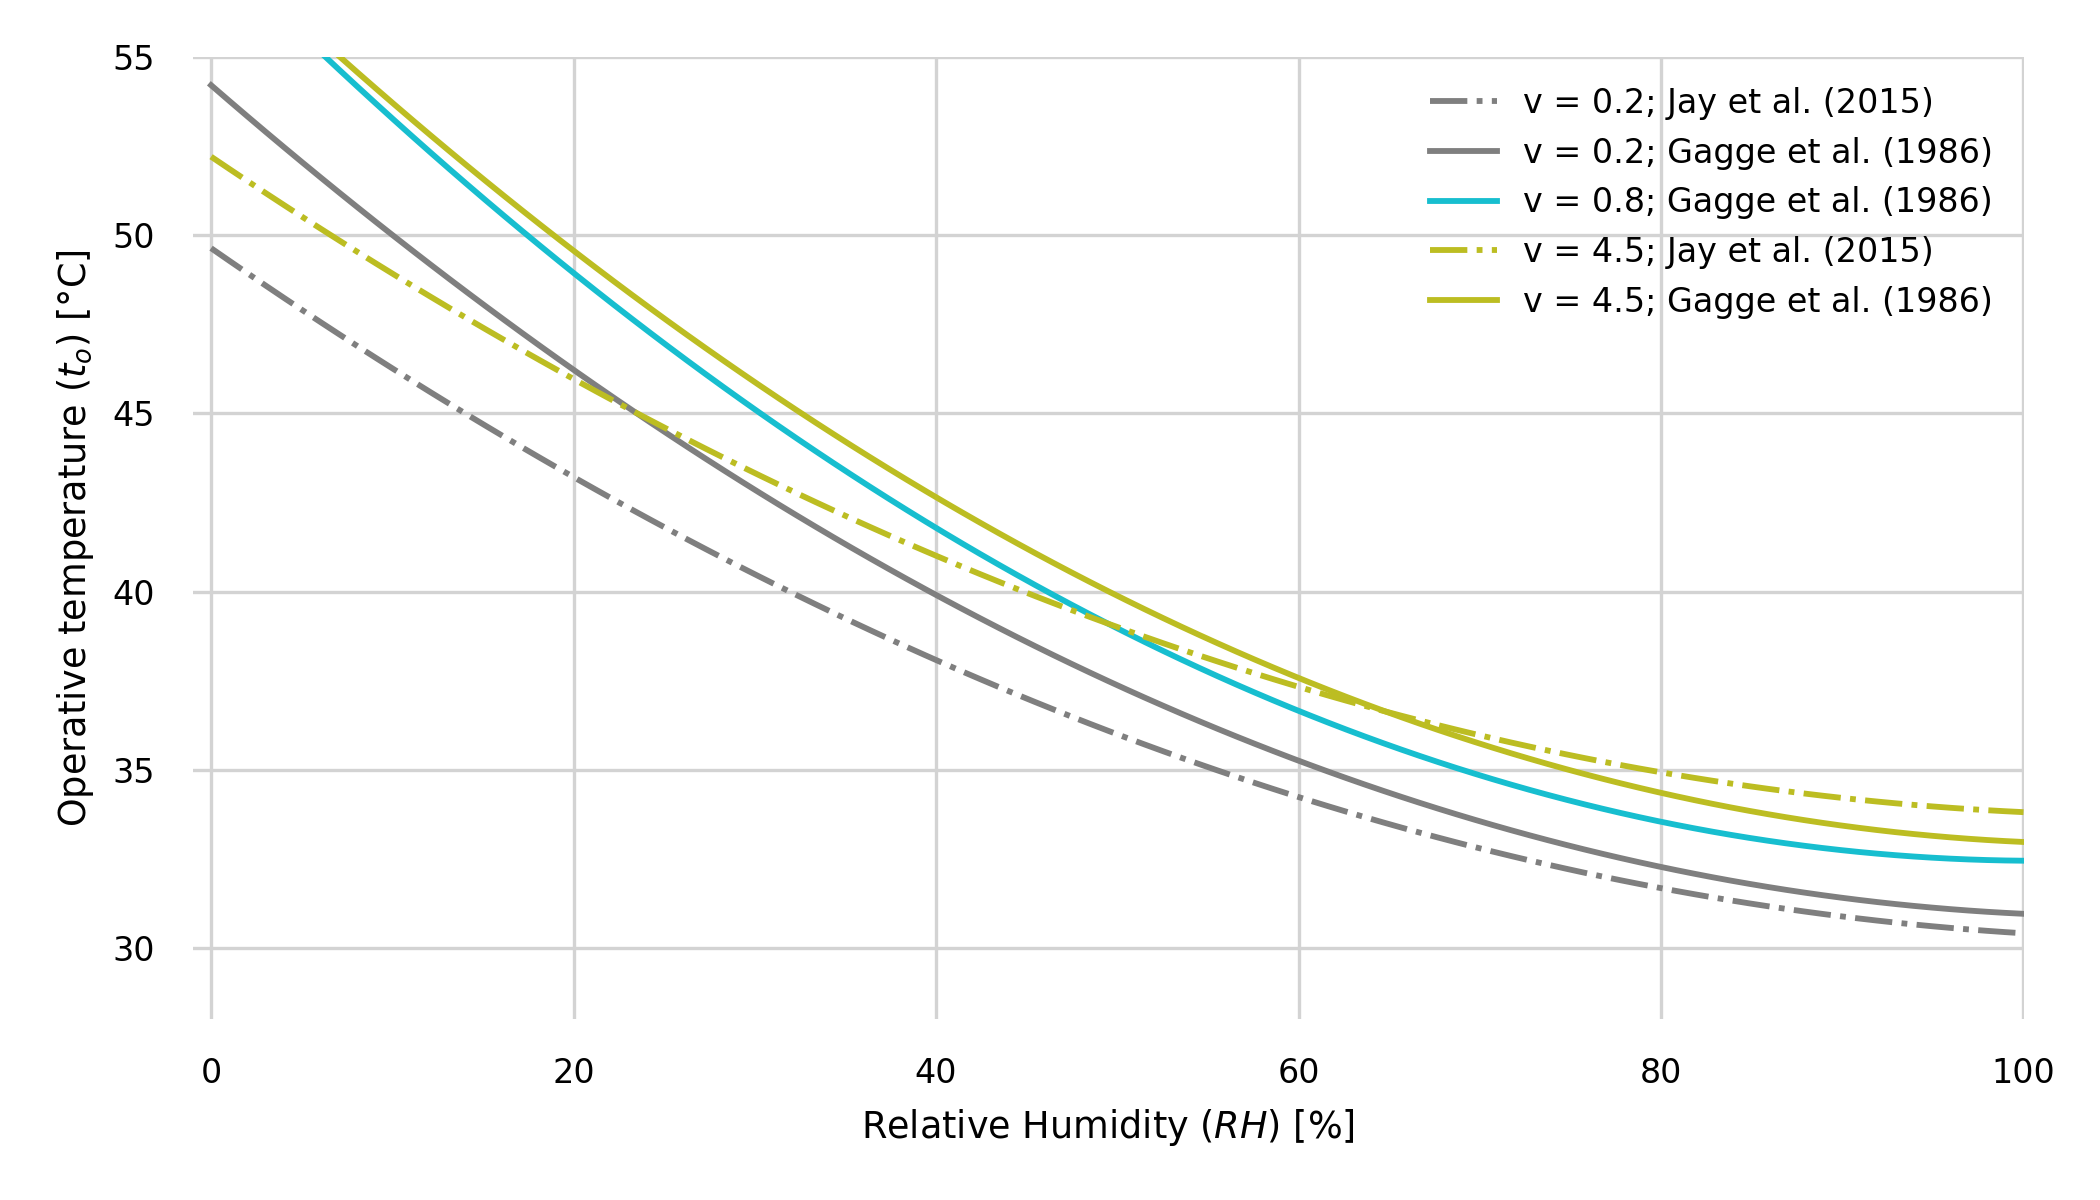
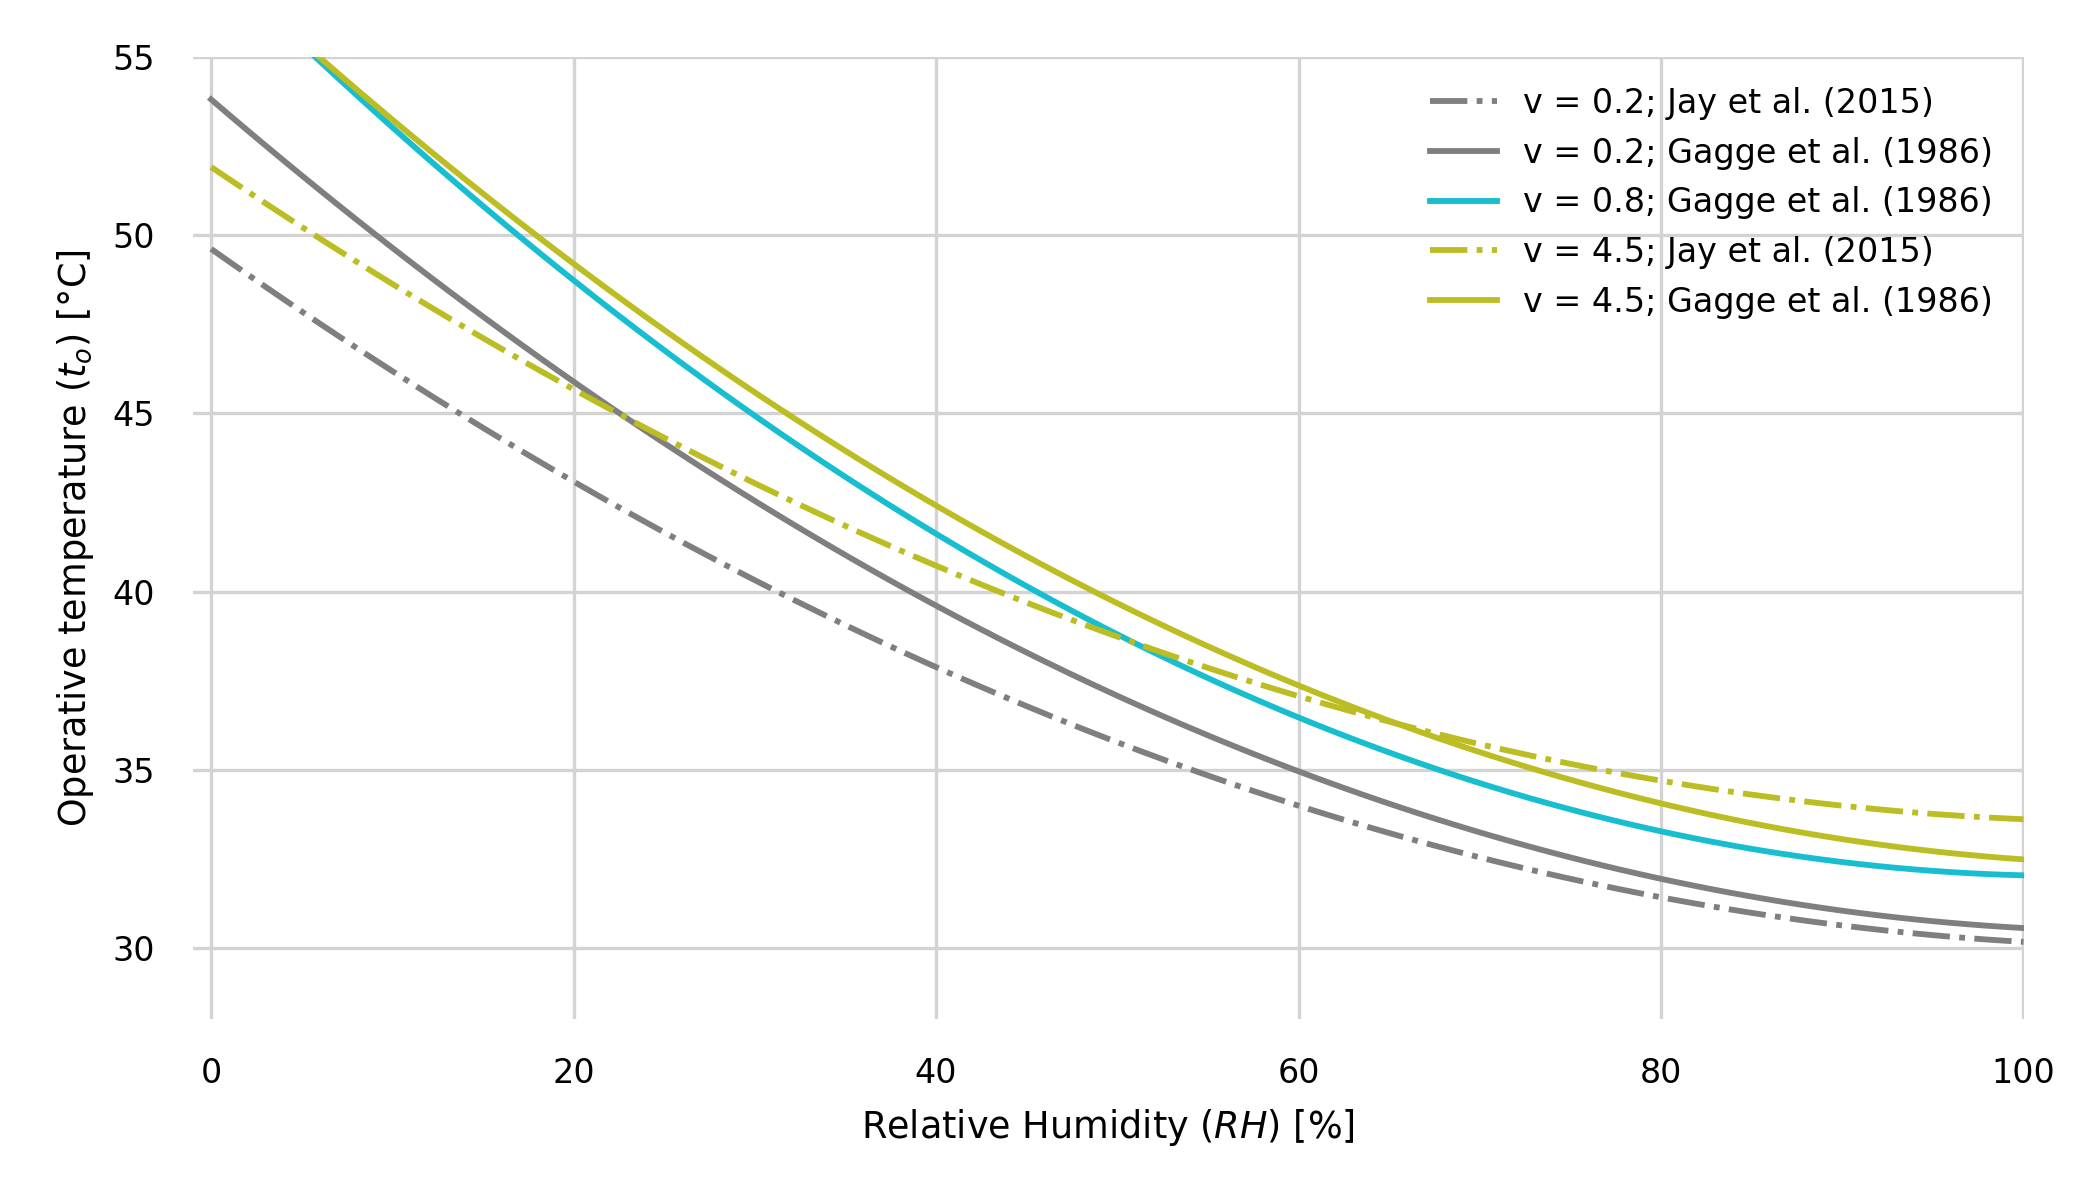
* changed the way I calculate heat strain using w_crit

diff --git a/code/main.py b/code/main.py
@@ -33,7 +33,19 @@ class DataAnalysis:
         self.colors = ["tab:orange", "tab:blue", "tab:green", "tab:red"]
         self.colors_f3 = ["tab:gray", "tab:cyan", "tab:olive"]
 
-        self.heat_strain = {}
+        try:
+            self.heat_strain = np.load(
+                os.path.join("code", "heat_strain.npy"), allow_pickle="TRUE"
+            ).item()
+        except FileNotFoundError:
+            self.heat_strain = {}
+
+        try:
+            self.heat_strain_ollie = np.load(
+                os.path.join("code", "heat_strain_ollie.npy"), allow_pickle="TRUE"
+            ).item()
+        except FileNotFoundError:
+            self.heat_strain_ollie = {}
 
         self.conn = sqlite3.connect(
             os.path.join(os.getcwd(), "code", "weather_ashrae.db")
@@ -463,124 +475,45 @@ class DataAnalysis:
 
         fig, ax = plt.subplots(figsize=(7, 4))
 
+        heat_strain = {}
+
         for ix, v in enumerate(self.v_range):
 
-            tmp_array = []
-            rh_array = []
-
-            sensible_skin_heat_loss = []
-            sensible_skin_heat_loss_ollie = []
-            max_latent_heat_loss = []
-            max_latent_heat_loss_ollie = []
-
-            skin_wettedness = []
-            core_tmp = []
-
-            max_skin_wettedness = fan_use_set(
-                50, 50, v, 100, 1.2, 0.5, wme=0, units="SI"
-            )["skin_wetness"]
+            heat_strain[v] = {}
 
             color = self.colors_f3[ix]
 
             for rh in self.rh_range:
 
-                for ta in np.arange(28, 66, 1):
-
-                    tmp_array.append(ta)
-                    rh_array.append(rh)
+                for ta in np.arange(28, 66, 0.5):
 
                     r = fan_use_set(ta, ta, v, rh, 1.2, 0.5, wme=0, units="SI")
 
-                    sensible_skin_heat_loss.append(r["hl_evaporation_required"])
-                    # todo check the following assumption since it is very important
-                    max_latent_heat_loss.append(
-                        r["hl_evaporation_max"] * max_skin_wettedness
-                    )
-                    # max_latent_heat_loss.append(r["hl_evaporation_max"] * w)
+                    if r["p_wet"] >= r["w_max"]:
+                        heat_strain[v][rh] = ta
+                        break
 
-                    skin_wettedness.append(r["skin_wetness"])
-                    core_tmp.append(r["temp_core"])
-
-                    if v == 0.2:
-                        fan_on = False
-
-                        r = ollie(fan_on, ta, rh, is_elderly=False)
-
-                        sensible_skin_heat_loss_ollie.append(r["e_req_w"])
-                        max_latent_heat_loss_ollie.append(r["e_max_w"])
-
-                    elif v == 4.5:
-                        fan_on = True
-
-                        r = ollie(fan_on, ta, rh, is_elderly=False)
-
-                        sensible_skin_heat_loss_ollie.append(r["e_req_w"])
-                        max_latent_heat_loss_ollie.append(r["e_max_w"])
-
-            sensible_skin_heat_loss = [
-                x if x > 0 else 0 for x in sensible_skin_heat_loss
-            ]
-            max_latent_heat_loss = [x if x > 0 else 0 for x in max_latent_heat_loss]
-            max_latent_heat_loss_ollie = [
-                x if x > 0 else 0 for x in max_latent_heat_loss_ollie
-            ]
-            max_latent_heat_loss_ollie = [
-                x if x > 0 else 0 for x in max_latent_heat_loss_ollie
-            ]
-
-            ollie_model = [
-                x[0] - x[1]
-                for x in zip(max_latent_heat_loss_ollie, sensible_skin_heat_loss_ollie)
-            ]
-            ollie_model = [np.nan if x > 0 else 0 for x in ollie_model]
-            set_model = [
-                x[0] - x[1] for x in zip(max_latent_heat_loss, sensible_skin_heat_loss)
-            ]
-            set_model = [np.nan if x > 0 else 0 for x in set_model]
-
-            df = pd.DataFrame(data={"tmp": tmp_array, "rh": rh_array, "set": set_model})
-
-            if sensible_skin_heat_loss_ollie != []:
-                df["ollie"] = ollie_model
-                df_ollie = df.pivot("tmp", "rh", "ollie").sort_index(ascending=False)
-                y, x = [], []
-                for col in df_ollie.columns:
-                    try:
-                        y.append(df_ollie[col].dropna().index[-1])
-                        x.append(col)
-                    except:
-                        pass
-
-                # smooth line
-                f2 = np.poly1d(np.polyfit(x, y, 2))
-                xnew = np.linspace(min(x), max(x), 100)
-
+            if v in self.heat_strain_ollie.keys():
                 ax.plot(
-                    xnew,
-                    f2(xnew),
+                    self.heat_strain_ollie[v].keys(),
+                    self.heat_strain_ollie[v].values(),
                     linestyle="-.",
                     label=f"v = {v}; Jay et al. (2015)",
                     c=color,
                 )
 
-            df_set = df.pivot("tmp", "rh", "set").sort_index(ascending=False)
+            x = list(heat_strain[v].keys())
 
-            y, x = [], []
-            for col in df_set.columns:
-                try:
-                    y.append(df_set[col].dropna().index[-1])
-                    x.append(col)
-                except:
-                    pass
+            f2 = np.poly1d(np.polyfit(x, list(heat_strain[v].values()), 2))
 
-            # smooth line
-            f2 = np.poly1d(np.polyfit(x, y, 2))
+            heat_strain[v] = {}
+            x_new = np.linspace(0, 100, 100)
+            for val in x_new:
+                heat_strain[v][val] = f2(val)
 
-            xnew = np.linspace(min(x), max(x), 100)
+            ax.plot(x_new, f2(x_new), label=f"v = {v}; Gagge et al. (1986)", c=color)
 
-            self.heat_strain[v] = {"x": xnew, "y": f2(xnew)}
-
-            ax.plot(xnew, f2(xnew), label=f"v = {v}; Gagge et al. (1986)", c=color)
+        np.save(os.path.join("code", "heat_strain.npy"), heat_strain)
 
         ax.grid(c="lightgray")
 
@@ -606,23 +539,11 @@ class DataAnalysis:
         else:
             plt.show()
 
-        # f, ax = plt.subplots()
-        # levels = np.arange(36, 43, 1)
-        # x, y = np.meshgrid(self.rh_range, self.ta_range)
-        # df = pd.DataFrame({"tmp": tmp_array, "rh": rh_array, "z": core_tmp})
-        # df_w = df.pivot("tmp", "rh", "z")
-        # cf = ax.contourf(x, y, df_w.values, levels)
-        # plt.colorbar(cf)
-        # ax.set(
-        #     xlabel="Relative Humidity",
-        #     ylabel="Temperature",
-        #     title=f"core body tmp - air speed {v}",
-        # )
-        # plt.show()
-
     def met_clo(self, save_fig):
 
         fig, ax = plt.subplots(figsize=(7, 4))
+
+        heat_strain = {}
 
         combinations = [
             {"clo": 0.36, "met": 1, "ls": "dashed"},
@@ -639,75 +560,27 @@ class DataAnalysis:
 
             for ix, v in enumerate([0.2, 0.8]):
 
-                tmp_array = []
-                rh_array = []
-
-                sensible_skin_heat_loss = []
-                max_latent_heat_loss = []
-
-                skin_wettedness = []
-                core_tmp = []
-
-                max_skin_wettedness = fan_use_set(
-                    50, 50, v, 100, met, clo, wme=0, units="SI"
-                )["skin_wetness"]
+                heat_strain[v] = {}
 
                 color = self.colors_f3[ix]
 
                 for rh in self.rh_range:
 
-                    for ta in np.arange(28, 66, 1):
-
-                        tmp_array.append(ta)
-                        rh_array.append(rh)
+                    for ta in np.arange(28, 66, 0.5):
 
                         r = fan_use_set(ta, ta, v, rh, met, clo, wme=0, units="SI")
 
-                        sensible_skin_heat_loss.append(r["hl_evaporation_required"])
-                        # todo check the following assumption since it is very important
-                        max_latent_heat_loss.append(
-                            r["hl_evaporation_max"] * max_skin_wettedness
-                        )
-                        # max_latent_heat_loss.append(r["hl_evaporation_max"] * w)
+                        if r["p_wet"] >= r["w_max"]:
+                            heat_strain[v][rh] = ta
+                            break
 
-                        skin_wettedness.append(r["skin_wetness"])
-                        core_tmp.append(r["temp_core"])
+                x = list(heat_strain[v].keys())
 
-                sensible_skin_heat_loss = [
-                    x if x > 0 else 0 for x in sensible_skin_heat_loss
-                ]
-                max_latent_heat_loss = [x if x > 0 else 0 for x in max_latent_heat_loss]
-
-                set_model = [
-                    x[0] - x[1]
-                    for x in zip(max_latent_heat_loss, sensible_skin_heat_loss)
-                ]
-                set_model = [np.nan if x > 0 else 0 for x in set_model]
-
-                df = pd.DataFrame(
-                    data={"tmp": tmp_array, "rh": rh_array, "set": set_model}
-                )
-
-                df_set = df.pivot("tmp", "rh", "set").sort_index(ascending=False)
-
-                y, x = [], []
-                for col in df_set.columns:
-                    try:
-                        y.append(df_set[col].dropna().index[-1])
-                        x.append(col)
-                    except:
-                        pass
-
-                # smooth line
-                f2 = np.poly1d(np.polyfit(x, y, 2))
-
-                xnew = np.linspace(min(x), max(x), 100)
-
-                self.heat_strain[v] = {"x": xnew, "y": f2(xnew)}
+                f2 = np.poly1d(np.polyfit(x, list(heat_strain[v].values()), 2))
 
                 ax.plot(
-                    xnew,
-                    f2(xnew),
+                    x,
+                    f2(x),
                     label=f"v = {v}, clo = {clo}, met = {met}",
                     c=color,
                     linestyle=ls,
@@ -845,22 +718,24 @@ class DataAnalysis:
         for key in self.heat_strain.keys():
             if key == 0.2:
                 (ln_2,) = ax.plot(
-                    self.heat_strain[key]["x"],
-                    self.heat_strain[key]["y"],
+                    list(self.heat_strain[key].keys()),
+                    list(self.heat_strain[key].values()),
                     c="k",
                     linestyle=":",
                     label="v = 0.2 m/s",
                 )
             if key == 0.8:
                 ax.plot(
-                    self.heat_strain[key]["x"],
-                    self.heat_strain[key]["y"],
+                    list(self.heat_strain[key].keys()),
+                    list(self.heat_strain[key].values()),
                     c="k",
                     linestyle="-.",
                 )
             if key == 4.5:
                 ax.plot(
-                    self.heat_strain[key]["x"], self.heat_strain[key]["y"], c="k",
+                    list(self.heat_strain[key].keys()),
+                    list(self.heat_strain[key].values()),
+                    c="k",
                 )
 
         # smooth line
@@ -884,9 +759,8 @@ class DataAnalysis:
         )
 
         x_new, y_min = interpolate(
-            self.heat_strain[0.8]["x"], self.heat_strain[0.8]["y"]
+            list(self.heat_strain[0.8].keys()), list(self.heat_strain[0.8].values()),
         )
-        # ax.fill_between(x_new, y_min, y_new, alpha=0, zorder=100, hatch="/")
 
         x_new, y_new = interpolate(results_v_high, tmp)
         (ln_1,) = ax.plot(x_new, y_new, c="k", label="v = 4.5 m/s")
@@ -942,8 +816,8 @@ class DataAnalysis:
         )
         text_dic = [
             {"txt": "Thermal strain\nv =0.2m/s", "x": 5.5, "y": 50, "r": -46},
-            {"txt": "Thermal strain\nv=0.8m/s", "x": 13.5, "y": 52, "r": -47},
-            {"txt": "Thermal strain\nv=4.5m/s", "x": 20, "y": 52, "r": -46},
+            {"txt": "Thermal strain\nv=0.8m/s", "x": 8.3, "y": 52, "r": -47},
+            {"txt": "Thermal strain\nv=4.5m/s", "x": 17, "y": 52, "r": -46},
             {"txt": "No fans, v=4.5m/s", "x": 70, "y": 45, "r": -34},
             {"txt": "No fans, v=0.8m/s", "x": 80, "y": 44.5, "r": -36},
         ]
@@ -1400,23 +1274,23 @@ if __name__ == "__main__":
     #         fan_use_set(t, t, v, rh, 1.2, 0.5, wme=0, units="SI")["energy_balance"],
     #     )
 
-    # # Figure 1
-    # self.model_comparison(save_fig=True)
-    #
-    # # Figure 2
-    # self.figure_2(save_fig=True)
-    #
-    # # Figure 3
+    # Figure 1
+    self.model_comparison(save_fig=True)
+
+    # Figure 2
+    self.figure_2(save_fig=True)
+
+    # Figure 3
     self.comparison_air_speed(save_fig=True)
 
     # Figure 4 - you also need to generate fig 3
-    self.summary_use_fans(save_fig=False)
-    #
+    self.summary_use_fans(save_fig=True)
+
     # Figure 3
-    # self.met_clo(save_fig=True)
-    #
+    self.met_clo(save_fig=True)
+
     # Figure Maps
-    # self.plot_map_world(save_fig=True)
+    self.plot_map_world(save_fig=True)
 
     # # benefit of increasing air speed
     # benefit = self.heat_strain[0.8]["y"] - self.heat_strain[0.2]["y"]
